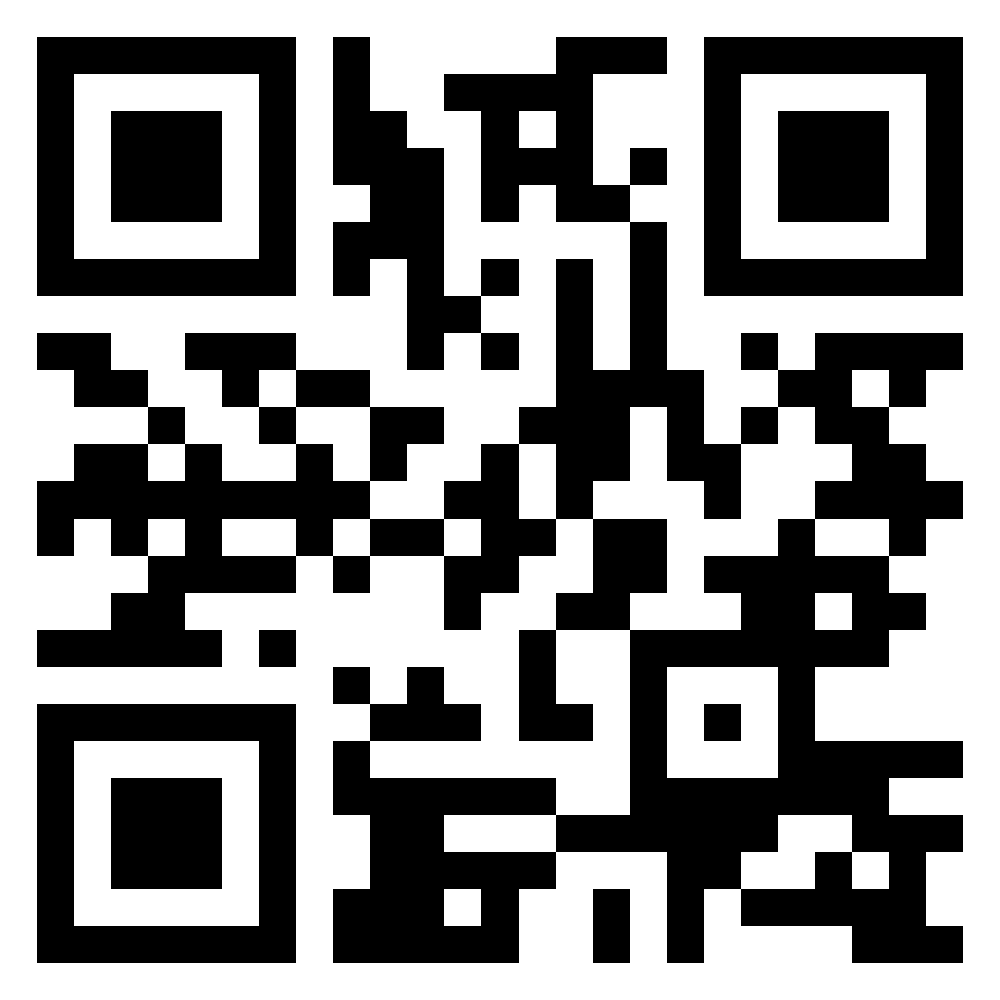
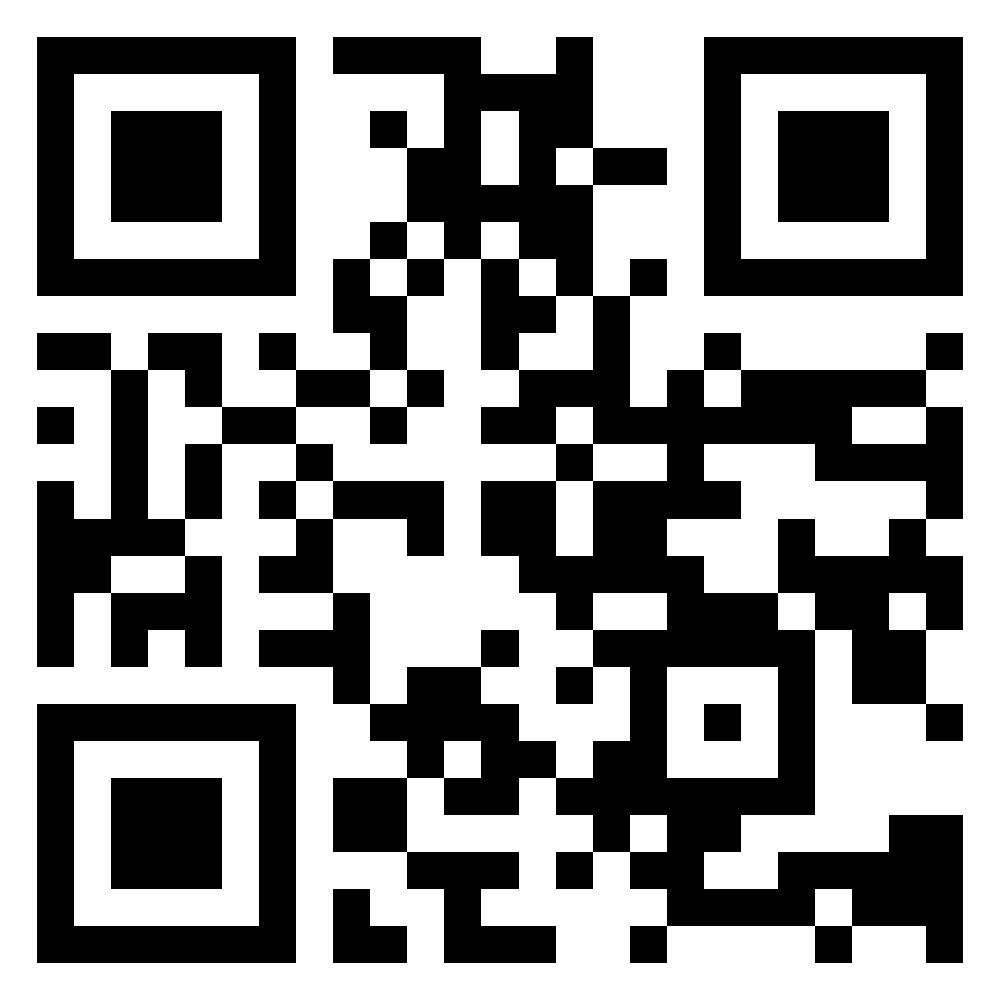
Add files via upload

diff --git a/index.html b/index.html
@@ -209,7 +209,7 @@
 
 <section id="portfolio-barcode">
   <h2>My Portfolio Barcode</h2>
-  <img src="" alt="Portfolio Barcode" width="200" height="200">
+  <img src="URL QR Code.png" alt="Portfolio Barcode" width="200" height="200">
   <p>You can get into my profile just by scanning the bar-code.</p>
 </section>
 
